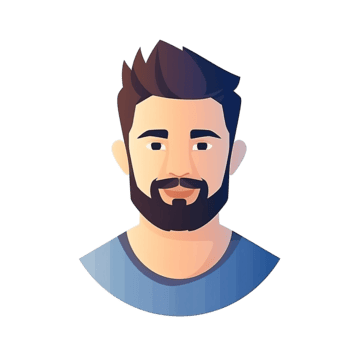
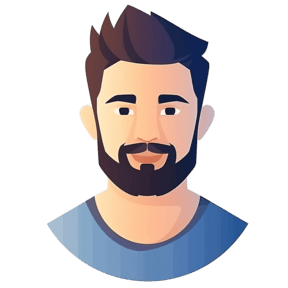
Update admin dashboard views and add template to gitignore

Changed region(s): [[0.1562, 0.0, 0.875, 1.0]]

diff --git a/resources/views/admin/index.blade.php b/resources/views/admin/index.blade.php
@@ -12,77 +12,61 @@
     <!-- Statistics Cards -->
     <div class="row mb-4">
         <!-- Doctors Card -->
-        <div class="col-lg-3 col-sm-6">
-            <div class="card stat-card stat-doctors">
-                <div class="card-body d-flex align-items-center">
-                    <div class="stat-icon">
-                        <i class="fa fa-user-md" aria-hidden="true"></i>
+         <div class="col-lg-3 col-sm-6 mb-2">
+            <div class="card">
+                <div class="card-body">
+                  <div class="d-flex align-items-center justify-content-between justify-content-md-center justify-content-xl-between flex-wrap">
+                    <div>
+                      <div class="stat-label mb-2">Doctors</div>
+                      <h5 class="mb-0">{{ $stats['doctors'] }}</h5>
                     </div>
-                    <div class="stat-sep" aria-hidden="true"></div>
-                    <div class="flex-grow-1">
-                        <div class="stat-label">Doctors</div>
-                        <div class="stat-value">{{ $stats['doctors'] }}</div>
-                        <div class="progress mt-2" role="progressbar" aria-label="Doctors progress" aria-valuenow="{{ $stats['doctors'] }}" aria-valuemin="0" aria-valuemax="100">
-                            <div class="progress-bar w-85"></div>
-                        </div>
-                    </div>
+                    <i class="mdi mdi-account-location icon-xl text-primary"></i>
+                  </div>
                 </div>
             </div>
         </div>
 
         <!-- Schools Card -->
-        <div class="col-lg-3 col-sm-6">
-            <div class="card stat-card stat-students">
-                <div class="card-body d-flex align-items-center">
-                    <div class="stat-icon">
-                        <i class="fa fa-building" aria-hidden="true"></i>
+        <div class="col-lg-3 col-sm-6 mb-2">
+            <div class="card">
+                <div class="card-body">
+                  <div class="d-flex align-items-center justify-content-between justify-content-md-center justify-content-xl-between flex-wrap">
+                    <div>
+                      <div class="stat-label mb-2">Schools</div>
+                      <h5 class="mb-0">{{ $stats['schools'] }}</h5>
                     </div>
-                    <div class="stat-sep" aria-hidden="true"></div>
-                    <div class="flex-grow-1">
-                        <div class="stat-label">Schools</div>
-                        <div class="stat-value">{{ $stats['schools'] }}</div>
-                        <div class="progress mt-2" role="progressbar" aria-label="Schools progress" aria-valuenow="{{ $stats['schools'] }}" aria-valuemin="0" aria-valuemax="100">
-                            <div class="progress-bar w-75"></div>
-                        </div>
-                    </div>
+                    <i class="mdi mdi-school icon-xl text-primary"></i>
+                  </div>
                 </div>
             </div>
         </div>
 
         <!-- Health Facilities Card -->
-        <div class="col-lg-3 col-sm-6">
-            <div class="card stat-card stat-labtests">
-                <div class="card-body d-flex align-items-center">
-                    <div class="stat-icon">
-                        <i class="fa fa-hospital-o" aria-hidden="true"></i>
+        <div class="col-lg-3 col-sm-6 mb-2">
+            <div class="card">
+                <div class="card-body">
+                  <div class="d-flex align-items-center justify-content-between justify-content-md-center justify-content-xl-between flex-wrap">
+                    <div>
+                      <div class="stat-label mb-2">Health Facilities</div>
+                      <h5 class="mb-0">{{ $stats['health_facilities'] }}</h5>
                     </div>
-                    <div class="stat-sep" aria-hidden="true"></div>
-                    <div class="flex-grow-1">
-                        <div class="stat-label">Health Facilities</div>
-                        <div class="stat-value">{{ $stats['health_facilities'] }}</div>
-                        <div class="progress mt-2" role="progressbar" aria-label="Health Facilities progress" aria-valuenow="{{ $stats['health_facilities'] }}" aria-valuemin="0" aria-valuemax="100">
-                            <div class="progress-bar w-65"></div>
-                        </div>
-                    </div>
+                    <i class="mdi mdi-hospital-building icon-xl text-primary"></i>
+                  </div>
                 </div>
             </div>
         </div>
 
         <!-- Revenue Card -->
-        <div class="col-lg-3 col-sm-6">
-            <div class="card stat-card stat-appointments">
-                <div class="card-body d-flex align-items-center">
-                    <div class="stat-icon">
-                        <i class="fa fa-dollar" aria-hidden="true"></i>
+         <div class="col-lg-3 col-sm-6 mb-2">
+            <div class="card">
+                <div class="card-body">
+                  <div class="d-flex align-items-center justify-content-between justify-content-md-center justify-content-xl-between flex-wrap">
+                    <div>
+                      <div class="stat-label mb-2">Revenue</div>
+                      <h5 class="mb-0">UGX {{ number_format($stats['revenue'], 0) }}</h5>
                     </div>
-                    <div class="stat-sep" aria-hidden="true"></div>
-                    <div class="flex-grow-1">
-                        <div class="stat-label">Revenue</div>
-                        <div class="stat-value">UGX {{ number_format($stats['revenue'], 0) }}</div>
-                        <div class="progress mt-2" role="progressbar" aria-label="Revenue progress" aria-valuenow="90" aria-valuemin="0" aria-valuemax="100">
-                            <div class="progress-bar w-90"></div>
-                        </div>
-                    </div>
+                    <i class="mdi mdi-square-inc-cash icon-xl text-primary"></i>
+                  </div>
                 </div>
             </div>
         </div>
@@ -105,7 +89,6 @@
         </div>
     </div>
 
-    </div>
 
     <!-- Charts Row -->
     <div class="row mb-4">

diff --git a/resources/views/layouts/sidebar.blade.php b/resources/views/layouts/sidebar.blade.php
@@ -14,8 +14,14 @@
     </li>
     <li class="nav-item">
         <a class="nav-link {{ request()->routeIs('book-doctor') ? 'active' : '' }}" href="{{ route('book-doctor', ['school' => $school])}}">
-            <i class="typcn typcn-heart-outline menu-icon"></i>
-            <span class="menu-title">Book Doctor</span>
+            <i class="mdi mdi-calendar-clock menu-icon"></i>
+            <span class="menu-title">Appointments</span>
+        </a>
+    </li>
+    <li class="nav-item">
+        <a class="nav-link {{ request()->routeIs('book-doctor') ? 'active' : '' }}" href="{{ route('book-doctor', ['school' => $school])}}">
+            <i class="mdi mdi-square-inc-cash menu-icon"></i>
+            <span class="menu-title">Transactions</span>
         </a>
     </li>
 </ul>
@@ -62,8 +68,14 @@
     </li>
     <li class="nav-item">
         <a class="nav-link {{ request()->routeIs('doctor.availability') ? 'active' : '' }}" href="{{ route('doctor.availability', ['doctorId' => $doctor->id]) }}">
-            <i class="typcn typcn-tick menu-icon"></i>
+            <i class="mdi mdi-calendar-clock menu-icon"></i>
             <span class="menu-title">My Availability</span>
+        </a>
+    </li>
+    <li class="nav-item">
+        <a class="nav-link {{ request()->routeIs('doctor.availability') ? 'active' : '' }}" href="{{ route('doctor.availability', ['doctorId' => $doctor->id]) }}">
+            <i class="mdi mdi-square-inc-cash menu-icon"></i>
+            <span class="menu-title">Transactions</span>
         </a>
     </li>
 </ul>
@@ -74,13 +86,13 @@
 <ul class="nav">
     <li class="nav-item">
         <a class="nav-link {{ request()->is('admin') ? 'active' : '' }}" href="{{ route('admin.index') }}">
-            <i class="typcn typcn-cog menu-icon"></i>
+            <i class="mdi mdi-view-dashboard menu-icon"></i>
             <span class="menu-title">Dashboard</span>
         </a>
     </li>
     <li class="nav-item">
         <a class="nav-link {{ request()->routeIs('admin.doctors.index') ? 'active' : '' }}" href="{{ route('admin.doctors.index') }}">
-            <i class="typcn typcn-heart-outline menu-icon"></i>
+            <i class="mdi mdi-stethoscope menu-icon"></i>
             <span class="menu-title">Doctors</span>
         </a>
     </li>
@@ -92,8 +104,14 @@
     </li>
     <li class="nav-item">
         <a class="nav-link {{ request()->routeIs('admin.payments.index') ? 'active' : '' }}" href="{{ route('admin.payments.index') }}">
-            <i class="typcn typcn-credit-card menu-icon"></i>
+            <i class="mdi mdi-credit-card menu-icon"></i>
             <span class="menu-title">Payments</span>
+        </a>
+    </li>
+    <li class="nav-item">
+        <a class="nav-link {{ request()->routeIs('admin.payments.index') ? 'active' : '' }}" href="{{ route('admin.payments.index') }}">
+            <i class="mdi mdi-contrast menu-icon"></i>
+            <span class="menu-title">Transactions</span>
         </a>
     </li>
     <li class="nav-item">
@@ -104,19 +122,19 @@
     </li>
     <li class="nav-item">
         <a class="nav-link {{ request()->routeIs('admin.schools.index') ? 'active' : '' }}" href="{{ route('admin.schools.index') }}">
-            <i class="typcn typcn-home menu-icon"></i>
+            <i class="mdi mdi-school menu-icon"></i>
             <span class="menu-title">Schools</span>
         </a>
     </li>
     <li class="nav-item">
         <a class="nav-link {{ request()->routeIs('admin.health-facilities.index') ? 'active' : '' }}" href="{{ route('admin.health-facilities.index') }}">
-            <i class="typcn typcn-heart-outline menu-icon"></i>
+            <i class="mdi mdi-hospital-building menu-icon"></i>
             <span class="menu-title">Health Facilities</span>
         </a>
     </li>
     <li class="nav-item">
         <a class="nav-link {{ request()->routeIs('doctor.all-availabilities') ? 'active' : '' }}" href="{{ route('doctor.all-availabilities') }}">
-            <i class="typcn typcn-time menu-icon"></i>
+            <i class="mdi mdi-clock menu-icon"></i>
             <span class="menu-title">Doctor Availabilities</span>
         </a>
     </li>

diff --git a/resources/views/admin/doctors/index.blade.php b/resources/views/admin/doctors/index.blade.php
@@ -5,16 +5,19 @@
     <!-- Header Section -->
     <div class="row mb-4">
         <div class="col-12">
-            <div class="card border-0 shadow-sm doctors-header-gradient">
+            <div class="card border-0 shadow-sm bg-primary">
                 <div class="card-body p-4">
                     <div class="d-flex justify-content-between align-items-center">
                         <div class="text-white">
                             <h1 class="h3 mb-1 fw-bold">Doctors Management</h1>
                             <p class="mb-0 opacity-85">Manage healthcare professionals and their information</p>
                         </div>
-                        <div>
+                        <div class="btn-group">
                             <button type="button" class="btn btn-light btn-sm" data-bs-toggle="modal" data-bs-target="#createDoctorModal">
-                                <i class="fa fa-plus me-2"></i>Register Doctor
+                                <i class="fa fa-plus me-2"></i>Register
+                            </button>
+                            <button type="button" class="btn btn-success btn-sm" data-bs-toggle="modal" data-bs-target="#createDoctorModal">
+                                <i class="mdi mdi-export me-2"></i> <span>Export</span>
                             </button>
                         </div>
                     </div>
@@ -36,7 +39,7 @@
                     ->pluck('specialization')
                     ->sort();
             @endphp
-            <select id="specialization-filter" class="form-select">
+            <select id="specialization-filter" class="form-select form-control">
                 <option value="">All Specializations</option>
                 @foreach($specializations as $specialization)
                     <option value="{{ strtolower($specialization) }}">{{ $specialization }}</option>
@@ -148,7 +151,7 @@
                                 @endif
                             </td>
                             <td>
-                                <span class="badge bg-success">
+                                <span class="badge bg-success text-white">
                                     <i class="fa fa-circle me-1" style="font-size: 0.5rem;"></i>Active
                                 </span>
                             </td>
@@ -160,10 +163,10 @@
                             <td class="text-center">
                                 <div class="btn-group" role="group">
                                     <a href="{{ route('admin.doctors.show', $doctor->id) }}" class="btn btn-sm btn-outline-info" title="View Profile">
-                                        <i class="fa fa-eye"></i>
+                                        <i class="mdi mdi-eye"></i>
                                     </a>
                                     <a href="{{ route('admin.model.edit', ['doctors', $doctor->id]) }}" class="btn btn-outline-secondary btn-sm" title="Edit">
-                                        <i class="fa fa-edit"></i>
+                                        <i class="mdi mdi-flag"></i>
                                     </a>
                                     <div class="dropdown">
                                         <button class="btn btn-sm btn-outline-primary dropdown-toggle" type="button" data-bs-toggle="dropdown" title="More Actions">

diff --git a/resources/views/layouts/base.blade.php b/resources/views/layouts/base.blade.php
@@ -18,11 +18,12 @@
         @endif
     </title>
     <!-- Favicon icon -->
-    <link rel="icon" type="image/png" sizes="16x16" href="">
+    <link rel="icon" type="image/png" sizes="16x16" href="{{ asset('images/ketiai-logo.svg') }}">
     <link rel="stylesheet" href="{{ asset('pollix/vendors/typicons/typicons.css') }}">
     <link rel="stylesheet" href="{{ asset('pollix/vendors/css/vendor.bundle.base.css') }}">
+    <link rel="stylesheet" href="{{ asset('pollix/vendors/mdi/css/materialdesignicons.min.css') }}">
     <link rel="stylesheet" href="{{ asset('pollix/css/vertical-layout-light/style.css') }}">
-    <link rel="shortcut icon" href="{{ asset('pollix/images/favicon.png') }}" />
+    <link rel="shortcut icon" href="{{ asset('images/ketiai-logo.svg') }}" />
 
     {{-- Allow pages to push additional styles (icons, page-level CSS) --}}
     @stack('styles')
@@ -37,7 +38,7 @@
       <div class="navbar-brand-wrapper d-flex justify-content-center">
         <div class="navbar-brand-inner-wrapper d-flex justify-content-between align-items-center w-100">
           <a class="navbar-brand brand-logo" href="{{ url('/') }}"><img src="{{ asset('images/emoji-logo-white.svg') }}" alt="KETI AI" style="height:40px; width:auto;"></a>
-          <a class="navbar-brand brand-logo-mini" href="{{ url('/') }}"><img src="{{ asset('images/emoji-logo-black.svg') }}" alt="KETI AI" style="height:30px; width:auto;"></a>
+          <a class="navbar-brand brand-logo-mini" href="{{ url('/') }}"><img src="{{ asset('images/ketiai-logo.svg') }}" alt="KETI AI" style="height:30px; width:auto;"></a>
           <button class="navbar-toggler navbar-toggler align-self-center" type="button" data-toggle="minimize">
             <span class="typcn typcn-th-menu"></span>
           </button>
@@ -72,8 +73,8 @@
         <ul class="navbar-nav navbar-nav-right">
           <li class="nav-item nav-date dropdown">
             <a class="nav-link d-flex justify-content-center align-items-center" href="javascript:;">
-              <h6 class="date mb-0">Today : {{ now()->format('M d') }}</h6>
-              <i class="typcn typcn-calendar"></i>
+              <h6 class="date mb-0">0 UGX</h6>
+              <i class="mdi mdi-wallet"></i>
             </a>
           </li>
           <li class="nav-item dropdown">

diff --git a/resources/views/admin/payments/index.blade.php b/resources/views/admin/payments/index.blade.php
@@ -16,9 +16,12 @@
                             <h1 class="h3 mb-1 fw-bold text-white">Payments Management</h1>
                             <p class="mb-0 opacity-85">Manage payment transactions and their details</p>
                         </div>
-                        <div class="d-flex gap-3">
+                        <div class="btn-group">
                             <button type="button" class="btn btn-light btn-sm" data-bs-toggle="modal" data-bs-target="#createPaymentModal">
-                                <i class="fa fa-plus me-3"></i> <span>Record Payment</span>
+                                <i class="fa fa-plus me-3"></i> <span>Record</span>
+                            </button>
+                            <button type="button" class="btn btn-secondary outline btn-sm" data-bs-toggle="modal" data-bs-target="#createPaymentModal">
+                                <i class="mdi mdi-export me-3"></i> <span>Export</span>
                             </button>
                         </div>
                     </div>

diff --git a/resources/views/doctor-availability.blade.php b/resources/views/doctor-availability.blade.php
@@ -13,12 +13,12 @@ if (typeof Morris !== 'undefined') {
 <div class="row">
     <div class="col-12">
                 <div class="card">
-            <div class="card-header bg-secondary text-white position-relative overflow-hidden">
+            <div class="card-header bg-primary text-white position-relative overflow-hidden">
                 
                 <div class="d-flex align-items-center mb-2">
                     <div class="me-3" style="width: 60px; height: 60px; border-radius: 50%; margin-right: 1rem;">
                         <div class="avatar-circle bg-white text-primary d-flex align-items-center justify-content-center" style="width: 60px; height: 60px; border-radius: 50%;">
-                            <i class="fa fa-user-md fa-2x"></i>
+                            <i class="mdi mdi-calendar-clock mdi-24px"></i>
                         </div>
                     </div>
                     <div class="flex-grow-1">

diff --git a/resources/views/book-doctor.blade.php b/resources/views/book-doctor.blade.php
@@ -12,7 +12,10 @@
             <div class="card-body">
                 <div class="d-flex justify-content-between align-items-center mb-3">
                     <h2 class="mb-0">Doctor Appointments</h2>
-                    <button type="button" class="btn btn-primary" data-toggle="modal" data-target="#newAppointmentModal"><i class="fa fa-plus"></i> New Appointment</button>
+                    <div class="btn-group">
+                        <button type="button" class="btn btn-sm btn-primary" data-toggle="modal" data-target="#newAppointmentModal"><i class="mdi mdi-stethoscope"></i> Book Doctor</button>
+
+                    </div>
                 </div>
                 <!-- Modal and form remain unchanged -->
                 <div>
@@ -145,7 +148,6 @@
                         </div>
                     </div>
                 </div>
-        </div>
         </div>
 @endsection
 

diff --git a/resources/views/students.blade.php b/resources/views/students.blade.php
@@ -43,7 +43,10 @@
         @endif
                 <div class="d-flex justify-content-between align-items-center mb-3">
                     <h2 class="mb-0">Student Management</h2>
-                    <button type="button" class="btn btn-primary" data-toggle="modal" data-target="#newStudentModal"><i class="fa fa-plus"></i> New Student</button>
+                    <div class="btn-group">
+                        <button type="button" class="btn btn-sm btn-primary" data-toggle="modal" data-target="#newStudentModal"><i class="fa fa-plus"></i> Register</button>
+                        <button type="button" class="btn btn-sm btn-success" data-toggle="modal" data-target="#newStudentModal"><i class="mdi mdi-cloud-upload"></i> <span>Import</span></button>
+                    </div>
                 </div>
 
         <!-- New Student Modal -->

diff --git a/resources/views/admin/appointments/index.blade.php b/resources/views/admin/appointments/index.blade.php
@@ -16,7 +16,7 @@
                             <h1 class="h3 mb-1 fw-bold text-white">Appointments Management</h1>
                             <p class="mb-0 opacity-85">Manage healthcare appointments and their details</p>
                         </div>
-                        <div class="d-flex gap-3">
+                        <div class="btn-group">
                             <button type="button" class="btn btn-light btn-sm" data-bs-toggle="modal" data-bs-target="#createAppointmentModal">
                                 <i class="fa fa-plus me-3"></i> <span>Schedule</span>
                             </button>

diff --git a/resources/views/doctor-appointments.blade.php b/resources/views/doctor-appointments.blade.php
@@ -1,7 +1,7 @@
 @extends('layouts.base')
 
 @section('content')
-<div class="container py-4 card shadow-sm mb-4">
+<div class="row p-4 card shadow-sm mb-4">
     <div class="d-flex justify-content-between align-items-center mb-3">
         <h2 class="mb-0">Appointments</h2>
         <div>
